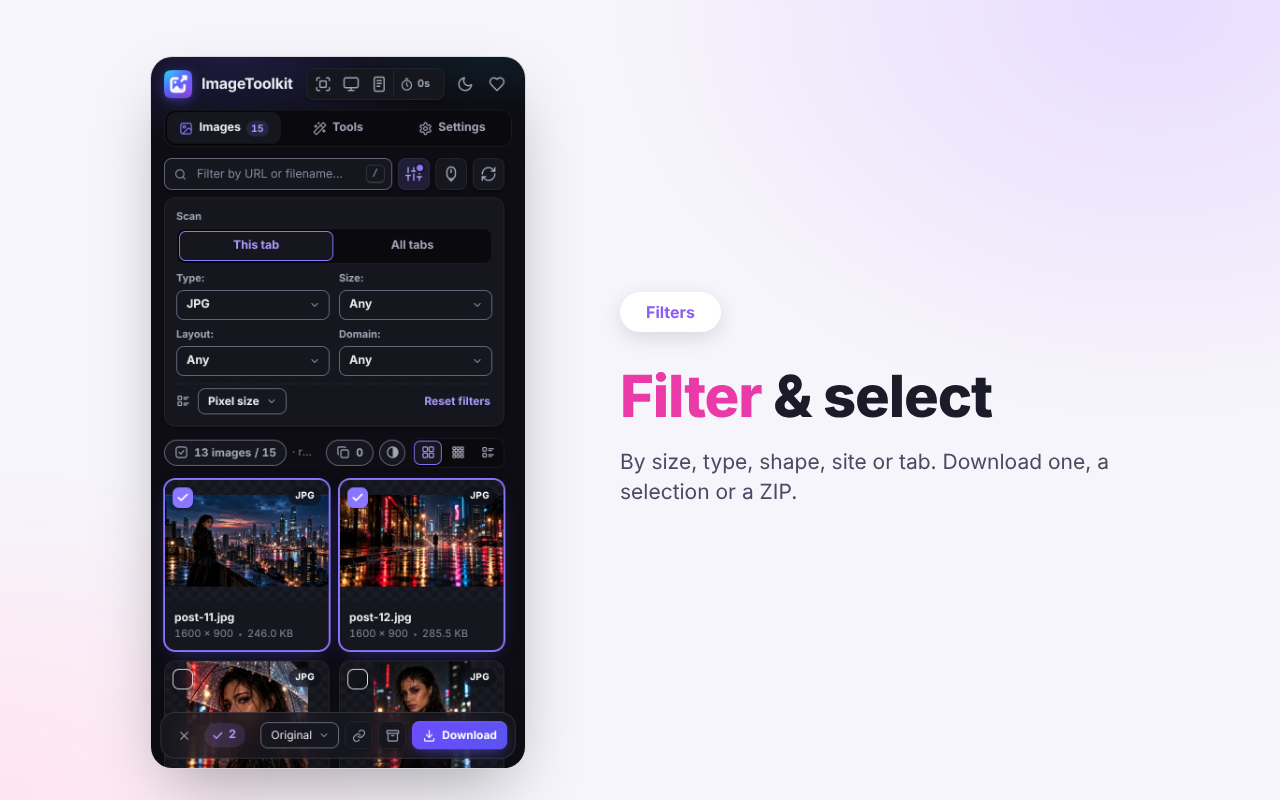
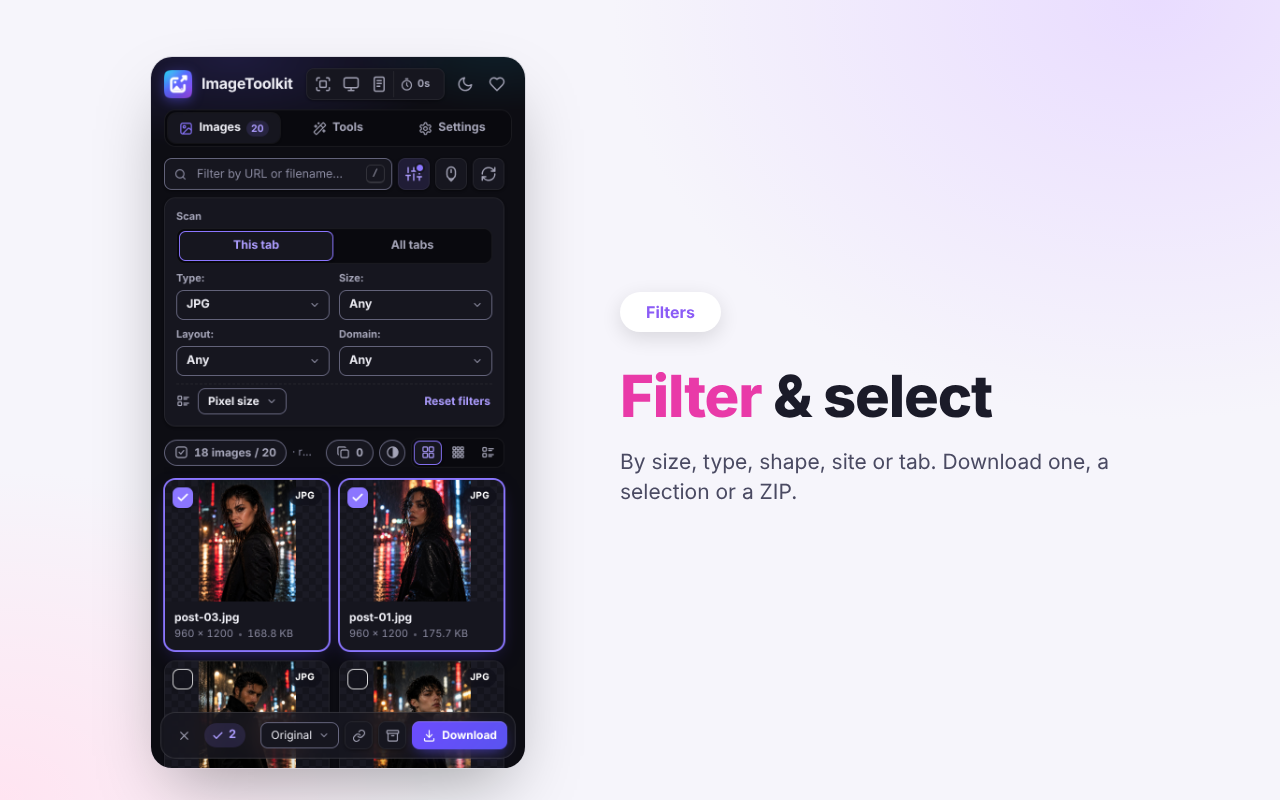
Store images: 18 languages, promo tiles, clearer capture slide
- Slide texts for every locale of the extension (the UI in each slide
  is the extension in that language); long titles shrink to fit,
  Arabic copy is right-to-left
- Capture slide shows the whole full-page capture behind the editor
  redacting it, instead of a downscaled viewer window
- Settings slide in the light theme; the others stay dark
- Small (440x280) and marquee (1400x560) promo tiles, English only as
  the store does not localize them
- Demo gallery: five more photos (18 posts); landscapes and squares
  are smaller in pixels so the panel, sorted by size, opens on faces
- Only English and Portuguese slides are committed; the other
  languages are regenerated on demand (docs/store/README.md)

Claude-Session: https://claude.ai/code/session_01C5vBPVJwonnmePKxiPkJYW

diff --git a/docs/store/demo/index.html b/docs/store/demo/index.html
@@ -51,7 +51,7 @@
       <div class="avatar"><img src="post-03.jpg" alt="Nyx, profile picture"></div>
       <div class="who">
         <h1>rain.editorials <button class="btn">Follow</button><button class="btn alt">Message</button></h1>
-        <div class="stats"><span><b>15</b> posts</span><span><b>18.4k</b> followers</span><span><b>128</b> following</span></div>
+        <div class="stats"><span><b>18</b> posts</span><span><b>18.4k</b> followers</span><span><b>128</b> following</span></div>
         <div class="bio"><strong>Rain Editorials</strong><br>Night portraits in the rain · fictional characters<br>Demo gallery for ImageToolkit screenshots · no real people</div>
       </div>
     </section>
@@ -62,6 +62,8 @@
       <span class="story"><i><img src="post-05.jpg" alt=""></i>Kai</span>
       <span class="story"><i><img src="post-10.jpg" alt=""></i>Vera</span>
       <span class="story"><i><img src="post-09.jpg" alt=""></i>Ezra</span>
+      <span class="story"><i><img src="post-16.jpg" alt=""></i>Mara</span>
+      <span class="story"><i><img src="post-17.jpg" alt=""></i>Theo</span>
     </nav>
     <div class="tabs"><span class="on">POSTS</span><span>SAVED</span><span>TAGGED</span></div>
     <section class="grid">
@@ -75,9 +77,14 @@
       <figure><img src="post-13.jpg" alt="Under a clear umbrella"></figure>
       <figure><img src="post-05.jpg" alt="Kai in the downpour"></figure>
       <figure><img src="post-04.jpg" alt="Luna, close-up"></figure>
+      <figure><img src="post-16.jpg" alt="Mara at the café window"></figure>
+      <figure><img src="post-17.jpg" alt="Theo on the blue street"></figure>
+      <figure><img src="post-14.jpg" alt="Red neon through the umbrella"></figure>
+      <figure class="wide"><img src="post-15.jpg" alt="Terrace over the skyline"></figure>
       <figure><img src="post-06.jpg" alt="Dario by the wall"></figure>
       <figure><img src="post-07.jpg" alt="Nyx, close-up"></figure>
       <figure><img src="post-08.jpg" alt="Kai, close-up"></figure>
+      <figure><img src="post-18.jpg" alt="Walking home"></figure>
     </section>
     <footer class="foot"><img src="logo.png" alt="rain.editorials" width="180" height="48"><img src="mark.svg" alt="" width="24" height="24"></footer>
     <p class="note">Fictional characters created for this demo.</p>

diff --git a/docs/store/README.md b/docs/store/README.md
@@ -1,0 +1,24 @@
+# Chrome Web Store images
+
+Rendered from the real extension by `npm run store:shots`, on a demo gallery with fictional characters ([`demo/`](demo)).
+
+```bash
+npm run store:shots            # all 18 languages + promo tiles
+npm run store:shots -- ja ko   # only the languages named
+```
+
+| Output | Size | Use |
+|---|---|---|
+| `<locale>/01-find.png` … `05-privacy.png` | 1280×800, PNG without alpha | Screenshots, in this order (the first one is the listing's cover) |
+| `promo/small-440x280.png` | 440×280 | Small promo tile |
+| `promo/marquee-1400x560.png` | 1400×560 | Marquee promo tile |
+
+English and Portuguese (Portugal) are kept in the repository for the README; the other languages are generated on demand (git-ignored).
+
+## Uploading
+
+In the Developer Dashboard, **Store listing** → pick the language at the top → **Localized screenshots** → upload that folder's five slides in order. Each folder matches the extension's `_locales` folder:
+
+`en` English · `pt_PT` Portuguese (Portugal) · `pt_BR` Portuguese (Brazil) · `es` Spanish · `fr` French · `it` Italian · `de` German · `nl` Dutch · `pl` Polish · `tr` Turkish · `ru` Russian · `uk` Ukrainian · `vi` Vietnamese · `ja` Japanese · `ko` Korean · `zh_CN` Chinese (China) · `zh_TW` Chinese (Taiwan) · `ar` Arabic
+
+The promo tiles cannot be localized, so there is one English set. Rendering Japanese, Korean, Chinese and Arabic needs their fonts installed (e.g. `fonts-noto-cjk` and `fonts-noto-core` on Debian/Ubuntu).

diff --git a/README.md b/README.md
@@ -34,7 +34,7 @@ The mark is a single continuous image frame that opens into an export arrow: fin
   <img src="docs/store/en/05-privacy.png" alt="Settings and privacy" width="425">
 </p>
 
-The characters in the demo gallery are fictional. `npm run store:shots` regenerates these images (and the Portuguese set in [`docs/store/pt_PT`](docs/store/pt_PT)) from the real extension.
+The characters in the demo gallery are fictional. `npm run store:shots` renders these images from the real extension in all 18 languages, plus the store's promo tiles — see [`docs/store`](docs/store/README.md).
 
 ## ✨ Features
 
